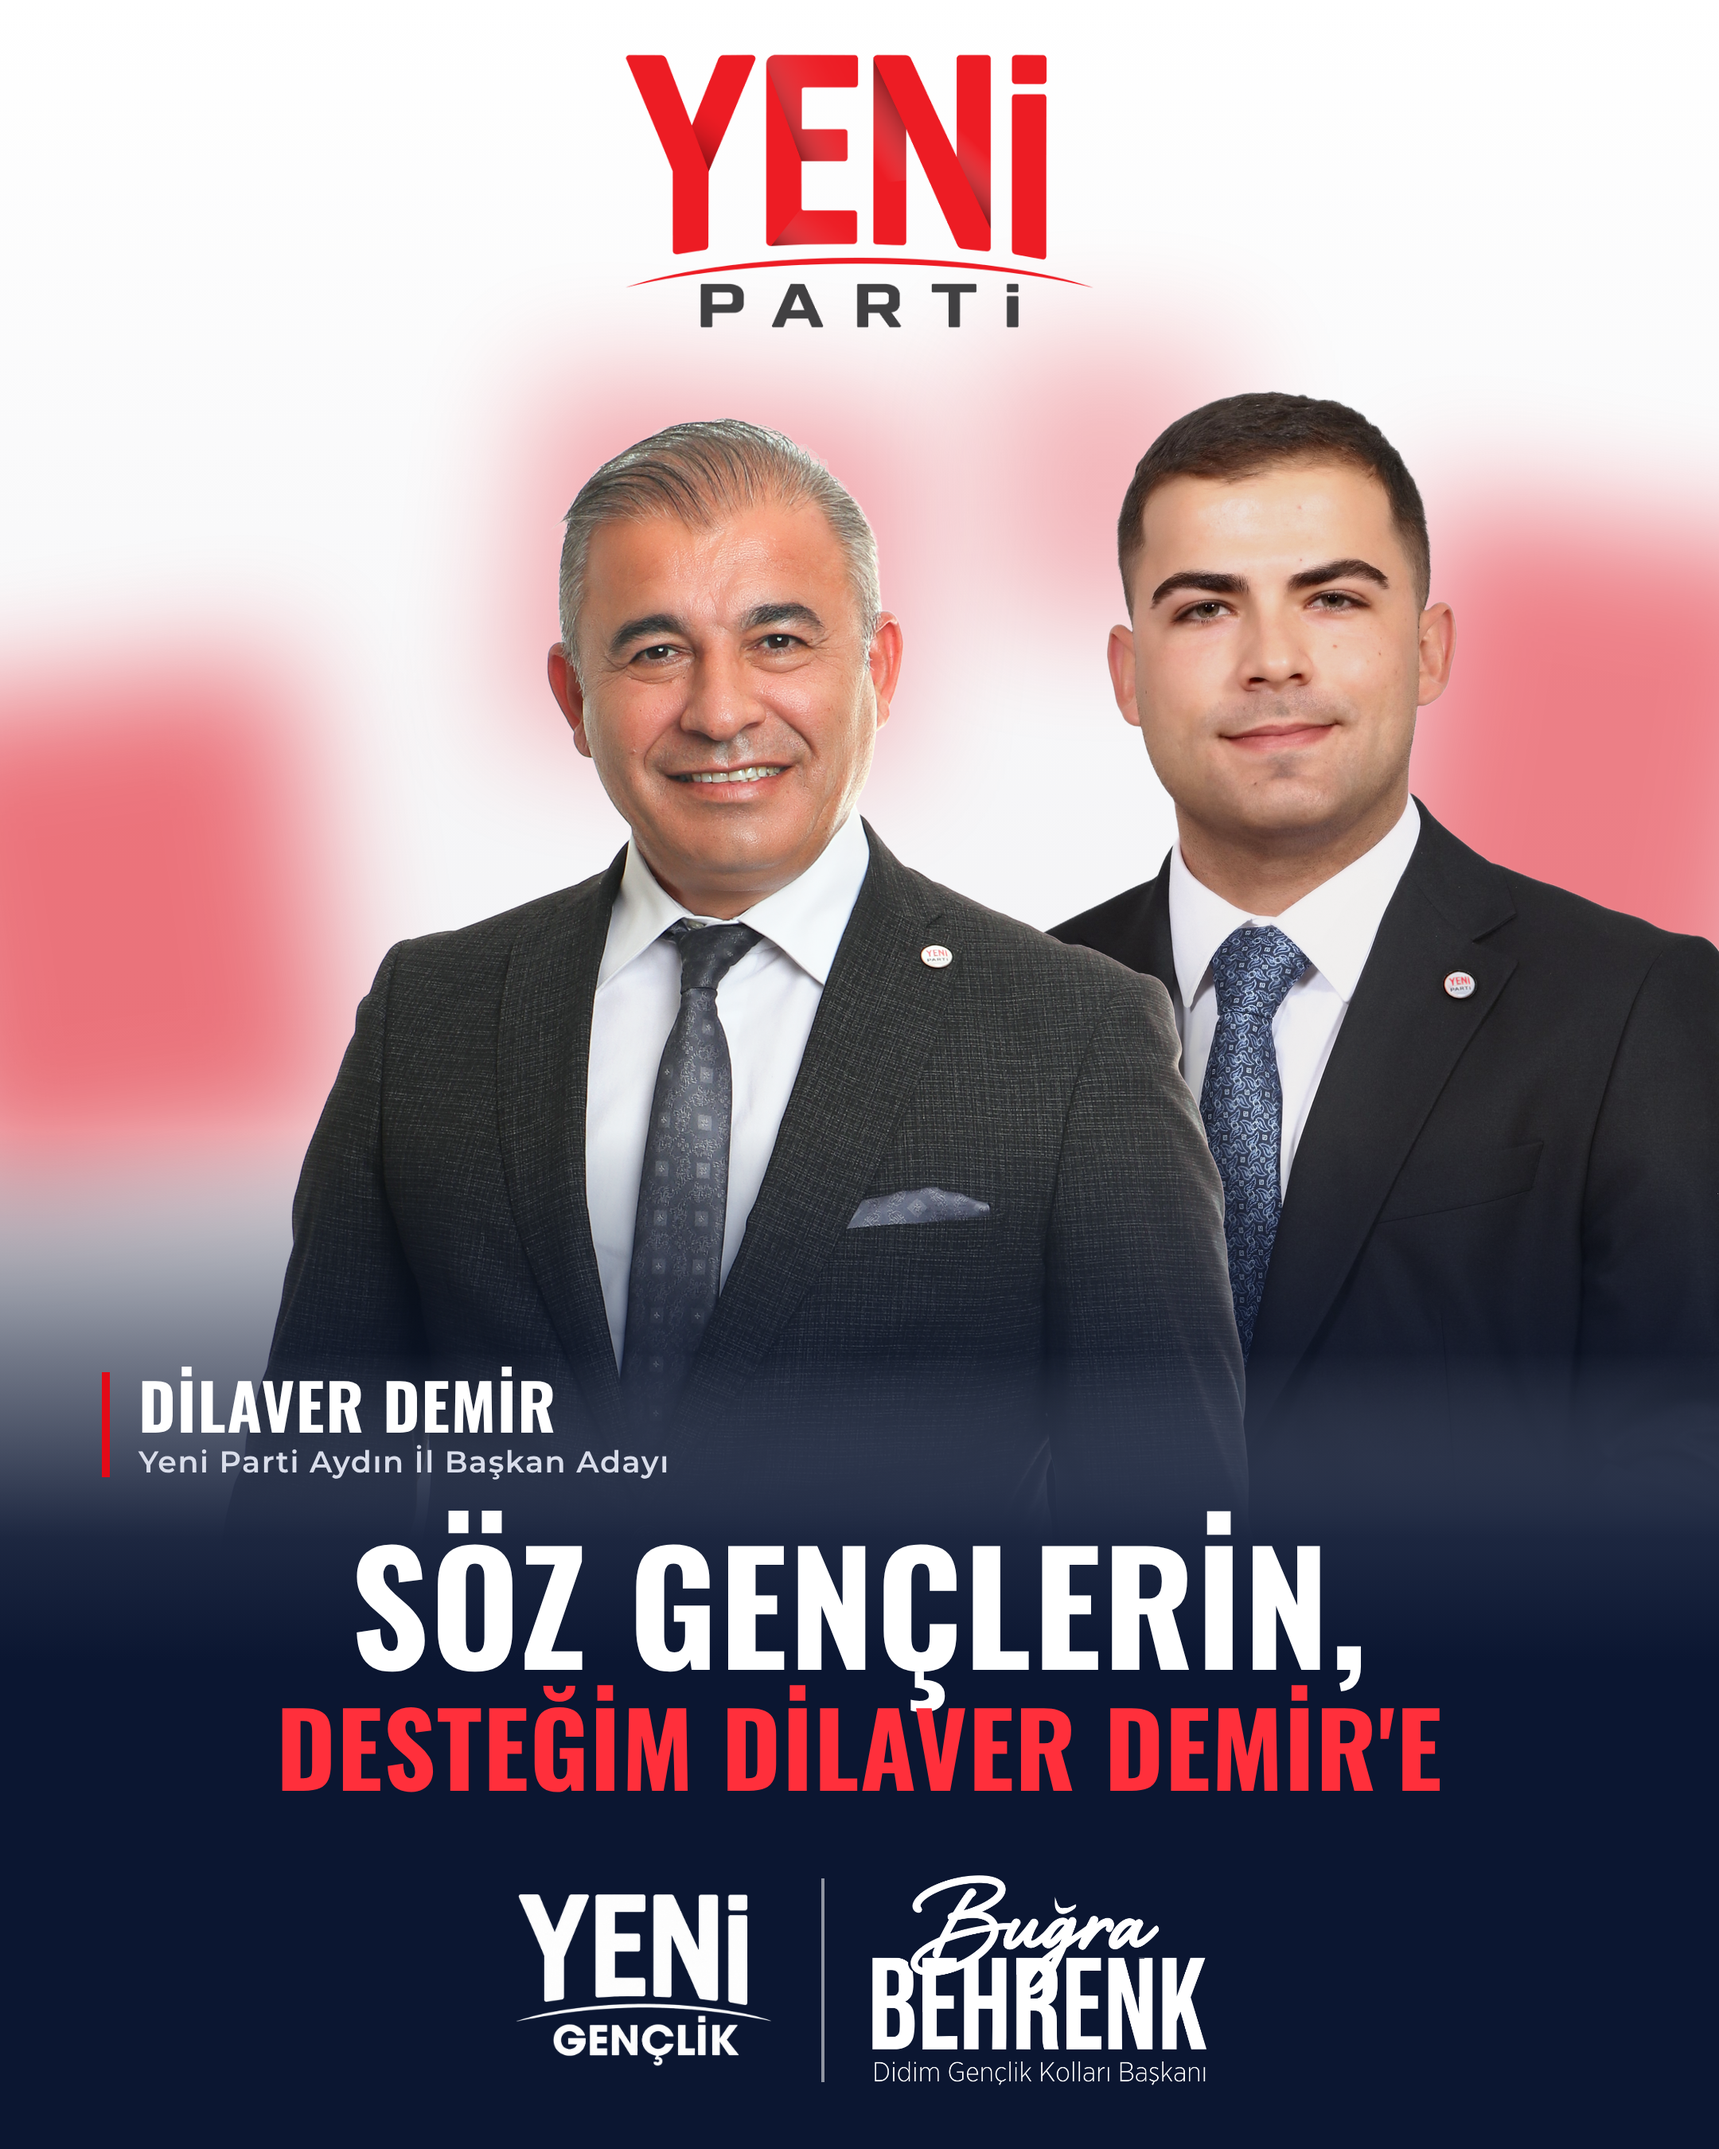
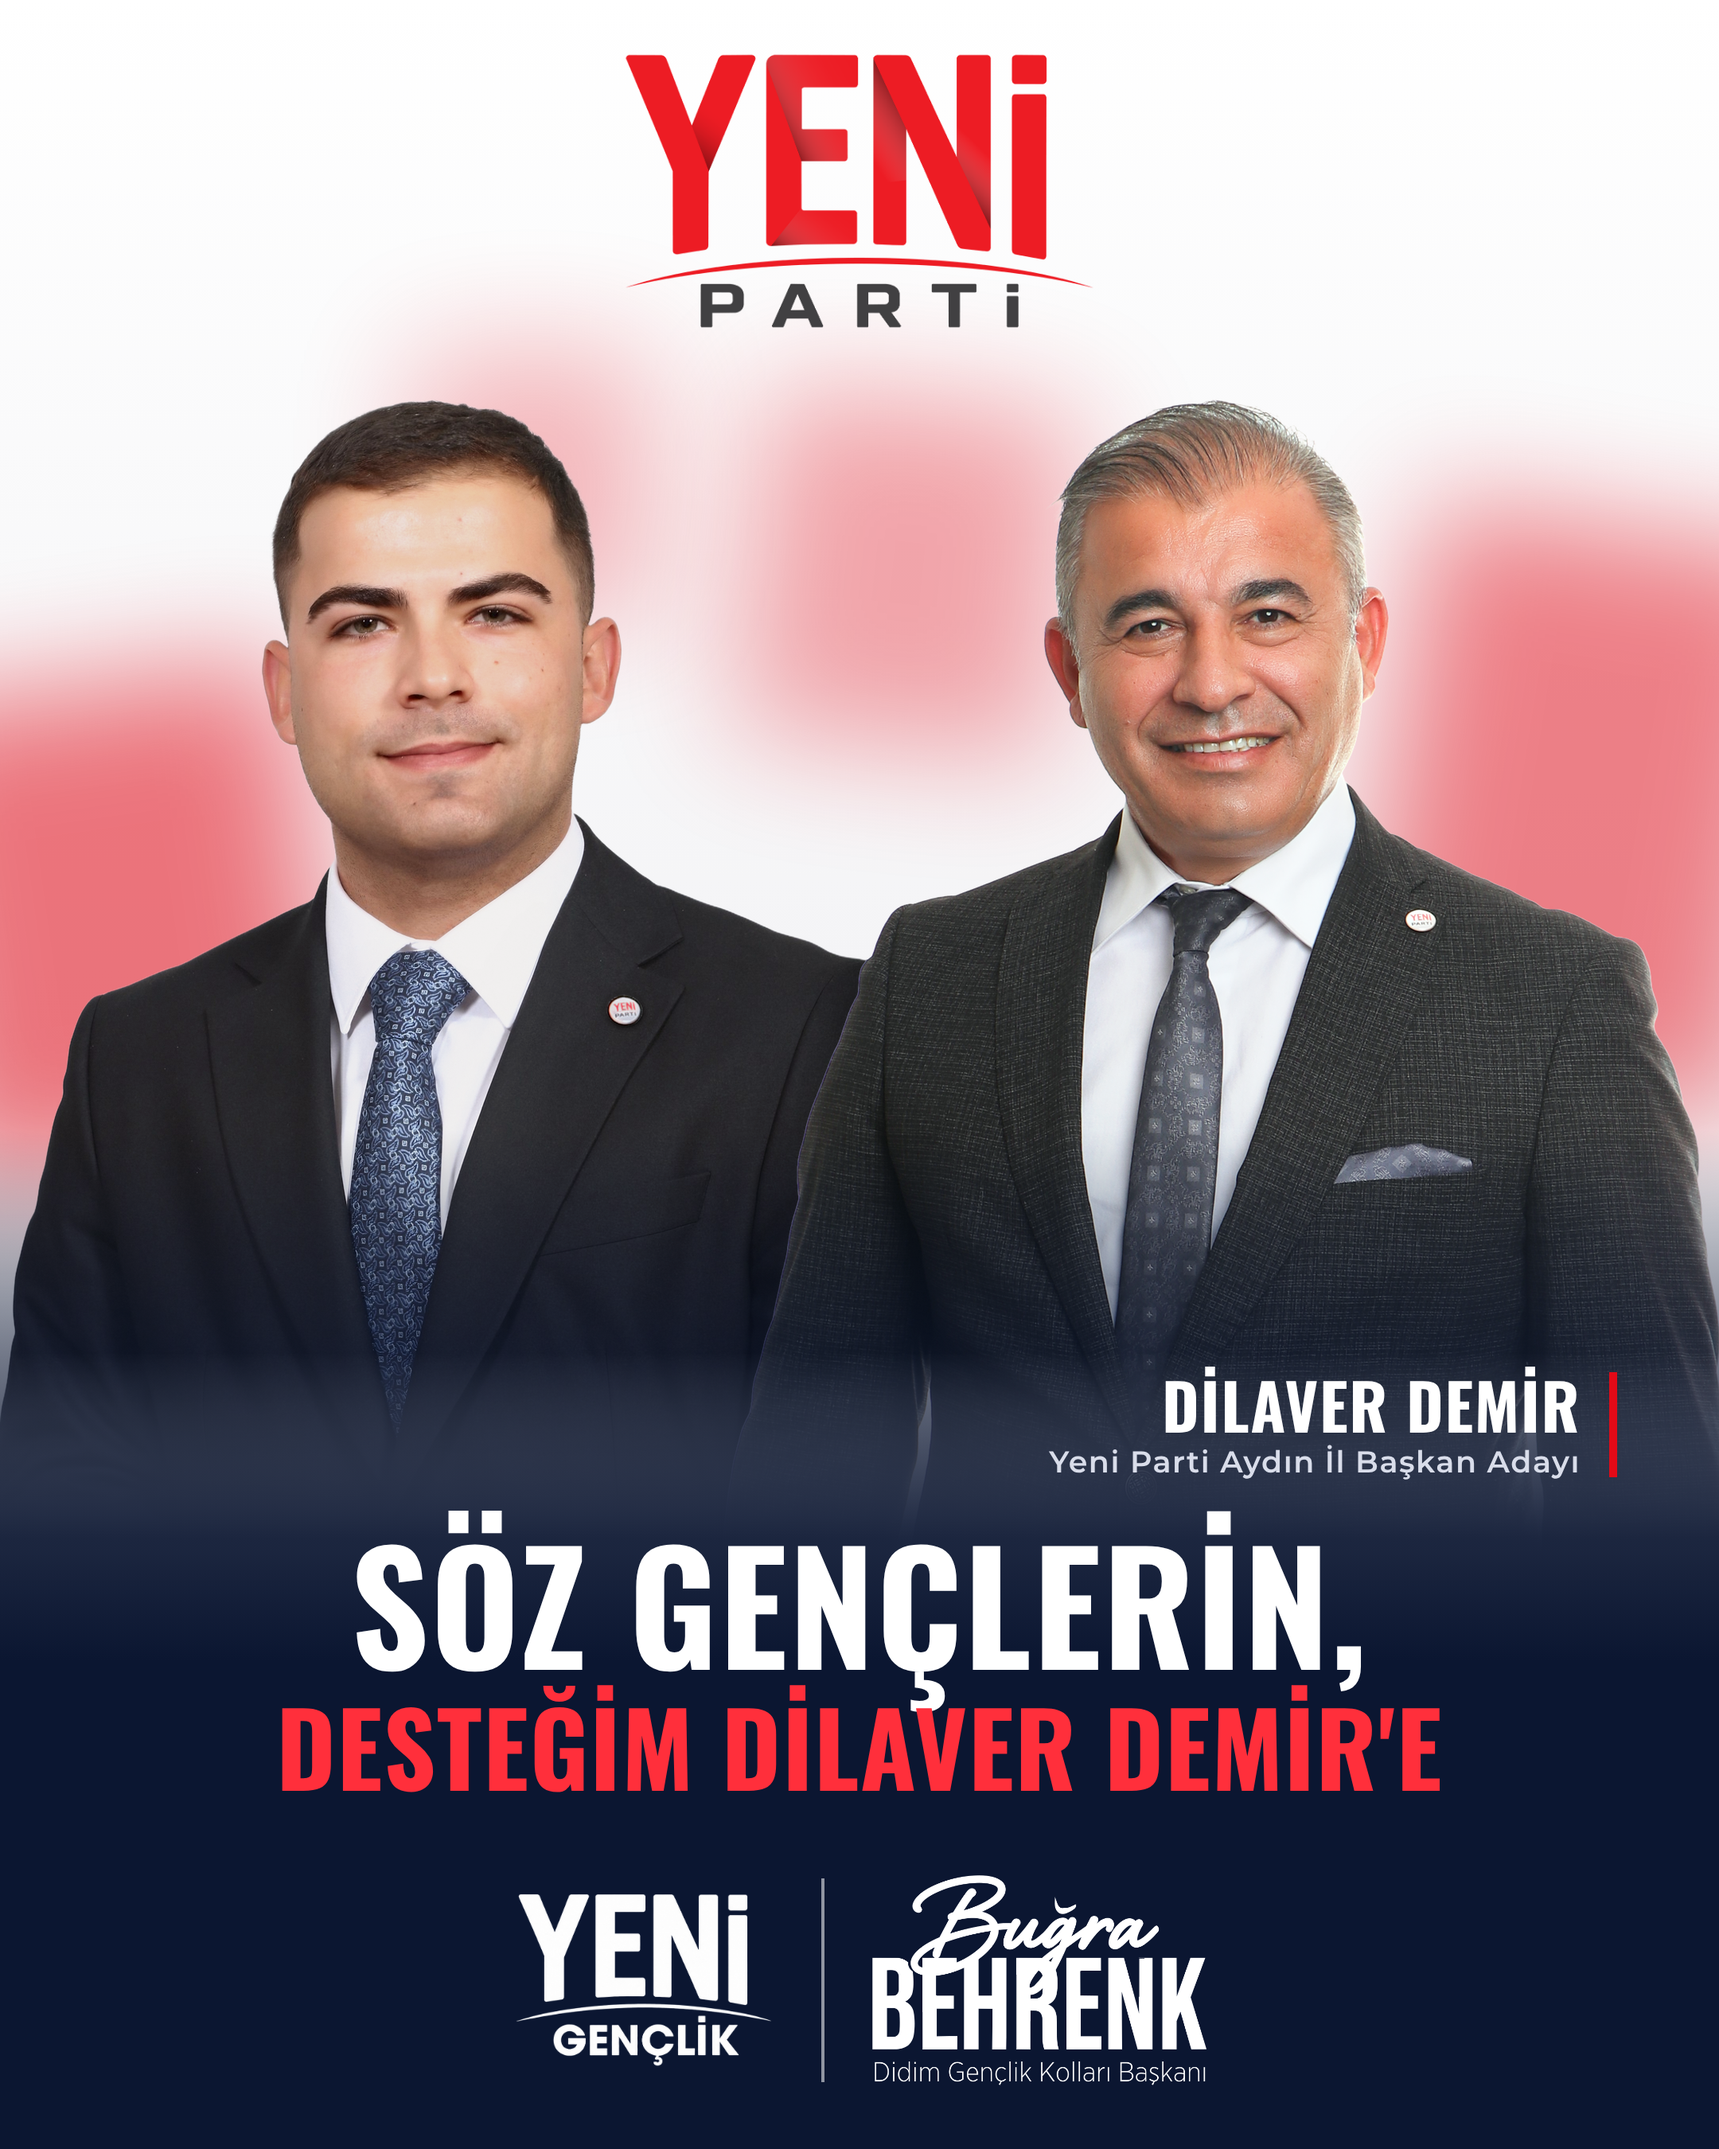
Destek afişi: Dilaver Demir sağda, eşit boy ve ortak göz hizası
Claude-Session: https://claude.ai/code/session_01SatttGbgBLoCnk9KGLypWv

Changed region(s): [[0.0, 0.1556, 1.0, 0.6844], [0.5273, 0.6533, 0.5583, 0.6844]]

diff --git a/tasarim/kisisel/destek/destek.html b/tasarim/kisisel/destek/destek.html
@@ -10,14 +10,14 @@ body{position:relative;background:linear-gradient(#FFFFFF 0%,#F4F4F6 45%,#ECECEF
 /* arkada bulanık kırmızı bayrak parçaları */
 .bulut{position:absolute;filter:blur(38px);background:var(--kirmizi);opacity:.55}
 .b1{left:-60px;top:430px;width:260px;height:300px;transform:rotate(-8deg)}
-.b2{left:330px;top:250px;width:240px;height:220px;transform:rotate(6deg);opacity:.35}
+.b2{left:470px;top:250px;width:200px;height:220px;transform:rotate(6deg);opacity:.35}
 .b3{right:-40px;top:330px;width:250px;height:360px;transform:rotate(9deg);opacity:.5}
-.b4{left:620px;top:220px;width:150px;height:170px;opacity:.28}
+.b4{left:260px;top:220px;width:150px;height:170px;opacity:.28}
 .logo{position:absolute;left:50%;top:30px;width:300px;transform:translateX(-50%)}
 .kisiler{position:absolute;left:0;top:0;width:1080px;height:1350px}
 .karanlik{position:absolute;left:0;right:0;bottom:0;height:640px;
   background:linear-gradient(to bottom,rgba(11,22,49,0) 0%,rgba(11,22,49,.55) 22%,rgba(11,22,49,.92) 40%,var(--gece) 52%,var(--gece) 100%)}
-.etiket{position:absolute;left:64px;top:862px;padding-left:18px;border-left:5px solid var(--kirmizi);color:#fff}
+.etiket{position:absolute;right:64px;top:862px;padding-right:18px;border-right:5px solid var(--kirmizi);color:#fff;text-align:right}
 .etiket b{display:block;font:40px/1 O7;letter-spacing:.02em}
 .etiket span{display:block;margin-top:7px;font:19px/1 M6;letter-spacing:.04em;color:#D9DDEA}
 .slogan{position:absolute;left:0;right:0;top:958px;text-align:center;color:#fff}

diff --git a/tasarim/kisisel/destek/kisiler.py b/tasarim/kisisel/destek/kisiler.py
@@ -1,4 +1,4 @@
-# Dilaver Demir (önde, solda) ve Buğra Behrenk (arkada, sağda) katmanı.
+# Buğra Behrenk (solda) ve Dilaver Demir (sağda, omzu hafif önde) katmanı; aynı boy, ortak göz hizası.
 # Pozlama gömlek beyazından, ten tonu Lab uzayında ortak hedefe eşitlenir.
 # Kullanım: python3 kisiler.py [ayar.json] [cikti.png]
 import sys, json
@@ -12,8 +12,9 @@ P = dict(
     beyaz=(234, 235, 241),          # ortak gömlek beyazı
     ten=(65.0, 16.5, 19.0),         # ortak ten hedefi (Lab)
     ten_gucu_b=0.75, ten_gucu_d=0.75,
-    d_bas=300, d_ust=262, d_sag=790,  # Dilaver: baş yüksekliği, saç üstü y, gövde sağ kenarı x
-    b_bas=282, b_ust=244,             # Buğra: baş yüksekliği, saç üstü y (sağ kenar = tuval kenarı)
+    bas=290,                          # ikisinin de baş yüksekliği (saç üstü-çene), aynı boy
+    goz=390,                          # ortak göz hizası (y)
+    d_sol=435,                        # Dilaver gövdesinin sol kenarı x (Buğra'nın sağ kol kesiğini örter)
     golge=0.38,
     eri_bas=850, eri_bit=975,
 )
@@ -56,11 +57,12 @@ da = np.asarray(d)[..., 3].astype(np.float32) / 255
 print('Dilaver')
 drgb = renk_duzelt(np.asarray(d.convert('RGB')).astype(np.float32), da, (210.1, 210.6, 221.8), (960, 280, 1660, 1120), P['ten_gucu_d'])
 D_BAS_UST, D_CENE = 559 - 480, 1625 - 480               # kırpılmış koordinatta saç üstü ve çene
-D_BBOX_SAG = 3084 - 600
-s_d = P['d_bas'] * K / (D_CENE - D_BAS_UST)
+D_BBOX_SOL = 686 - 600
+s_d = P['bas'] * K / (D_CENE - D_BAS_UST)
 dW, dH = round(d.width * s_d), round(d.height * s_d)
 dimg = Image.fromarray(np.dstack([np.clip(drgb, 0, 255), da * 255]).astype(np.uint8), 'RGBA').resize((dW, dH), Image.LANCZOS)
-dx = round(P['d_sag'] * K - D_BBOX_SAG * s_d); dy = round(P['d_ust'] * K - D_BAS_UST * s_d)
+D_GOZ = 1070 - 480                                     # kaynakta göz hizası (ölçüldü)
+dx = round(P['d_sol'] * K - D_BBOX_SOL * s_d); dy = round(P['goz'] * K - D_GOZ * s_d)
 
 # --- Buğra
 b = Image.open('/home/user/behrenk/tasarim/kisisel/rozet/yeni-parti-rozetli-hd.jpg').convert('RGB')
@@ -68,10 +70,11 @@ ba = np.asarray(Image.open('bugra-maske.png')).astype(np.float32) / 255
 print('Buğra')
 brgb = renk_duzelt(np.asarray(b).astype(np.float32), ba, (240.6, 241.7, 248.0), (760, 420, 1500, 1300), P['ten_gucu_b'])
 B_BAS_UST, B_CENE = 155, 1320
-s_b = P['b_bas'] * K / (B_CENE - B_BAS_UST)
+B_GOZ = 720
+s_b = P['bas'] * K / (B_CENE - B_BAS_UST)
 bW, bH = round(b.width * s_b), round(b.height * s_b)
 bimg = Image.fromarray(np.dstack([np.clip(brgb, 0, 255), ba * 255]).astype(np.uint8), 'RGBA').resize((bW, bH), Image.LANCZOS)
-bx = W - bW; by = round(P['b_ust'] * K - B_BAS_UST * s_b)
+bx = 0; by = round(P['goz'] * K - B_GOZ * s_b)              # sol kenara yaslı, göz hizası ortak
 
 # --- birleştir
 def katman(img, x, y):
@@ -79,7 +82,7 @@ def katman(img, x, y):
 tuval = katman(bimg, bx, by)
 # Dilaver'in Buğra üzerine gölgesi (sağa-aşağı kayık, yumuşak)
 dal = Image.new('L', (W, H), 0); dal.paste(dimg.split()[3], (dx, dy))
-g = nd.gaussian_filter(nd.shift(np.asarray(dal).astype(np.float32) / 255, (10 * K, 14 * K), order=1), 16 * K)
+g = nd.gaussian_filter(nd.shift(np.asarray(dal).astype(np.float32) / 255, (14 * K, -12 * K), order=1), 16 * K)
 t = np.asarray(tuval).astype(np.float32)
 t[..., :3] *= (1 - P['golge'] * g)[..., None]
 tuval = Image.fromarray(t.clip(0, 255).astype(np.uint8), 'RGBA')
